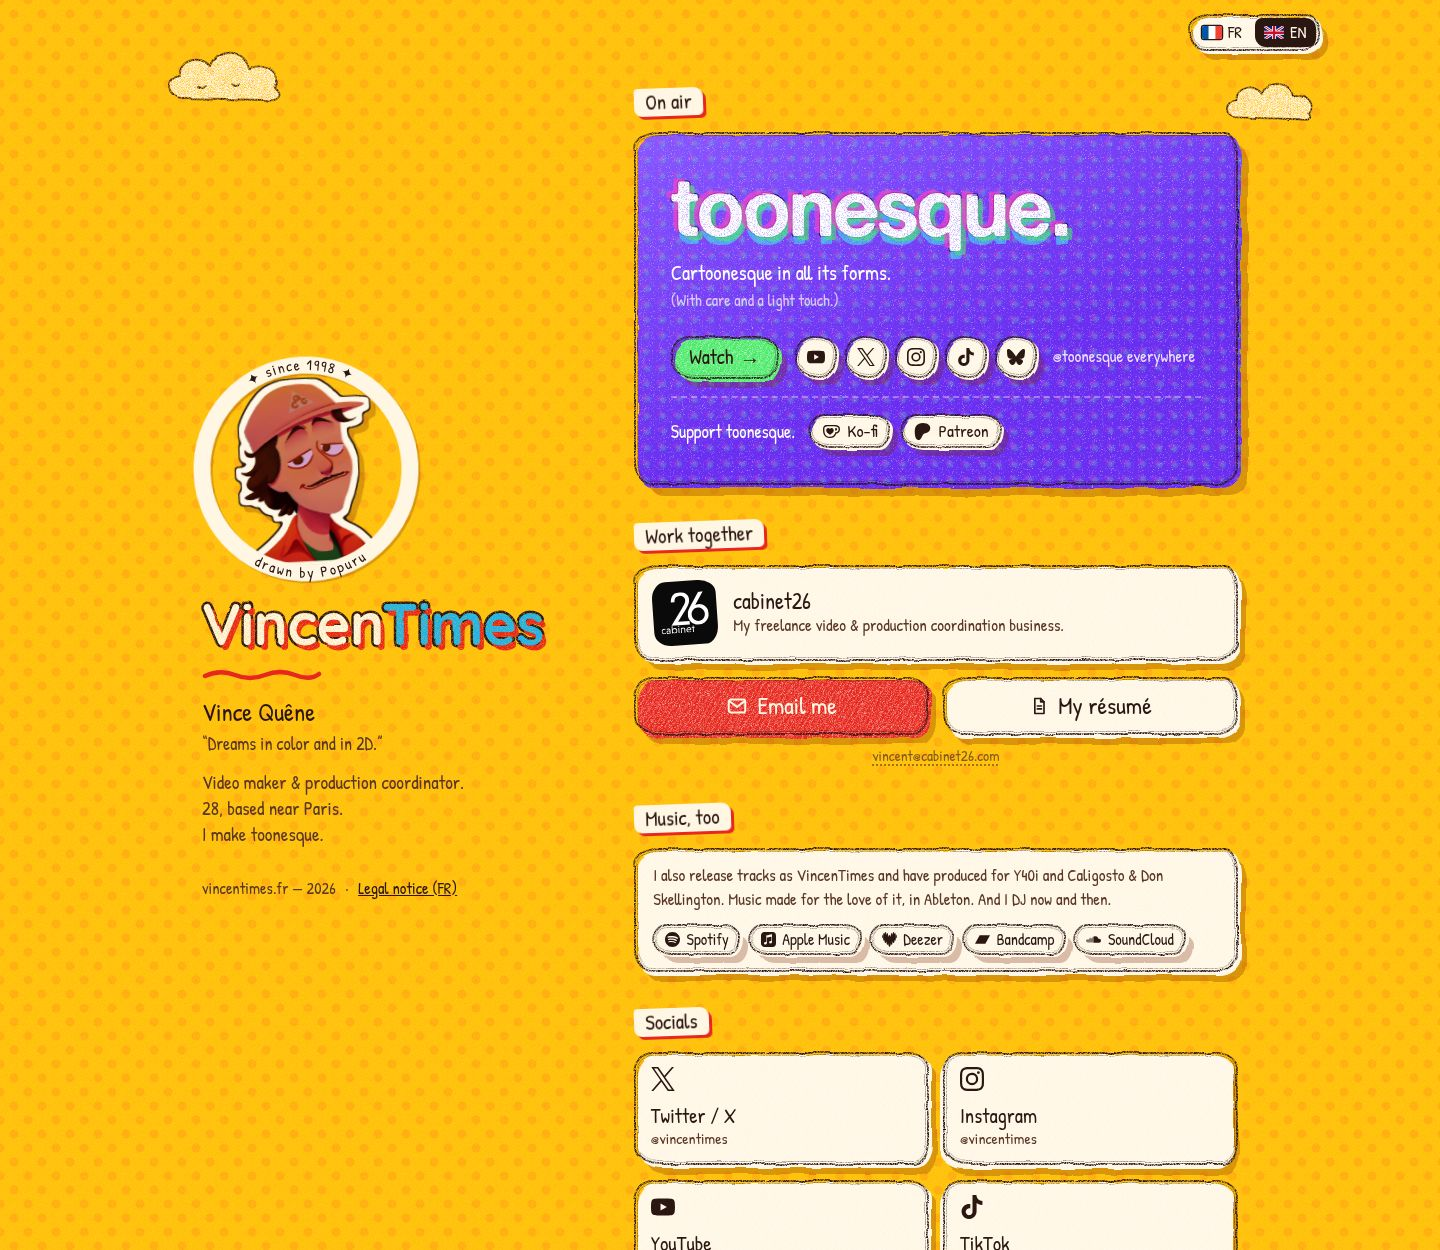
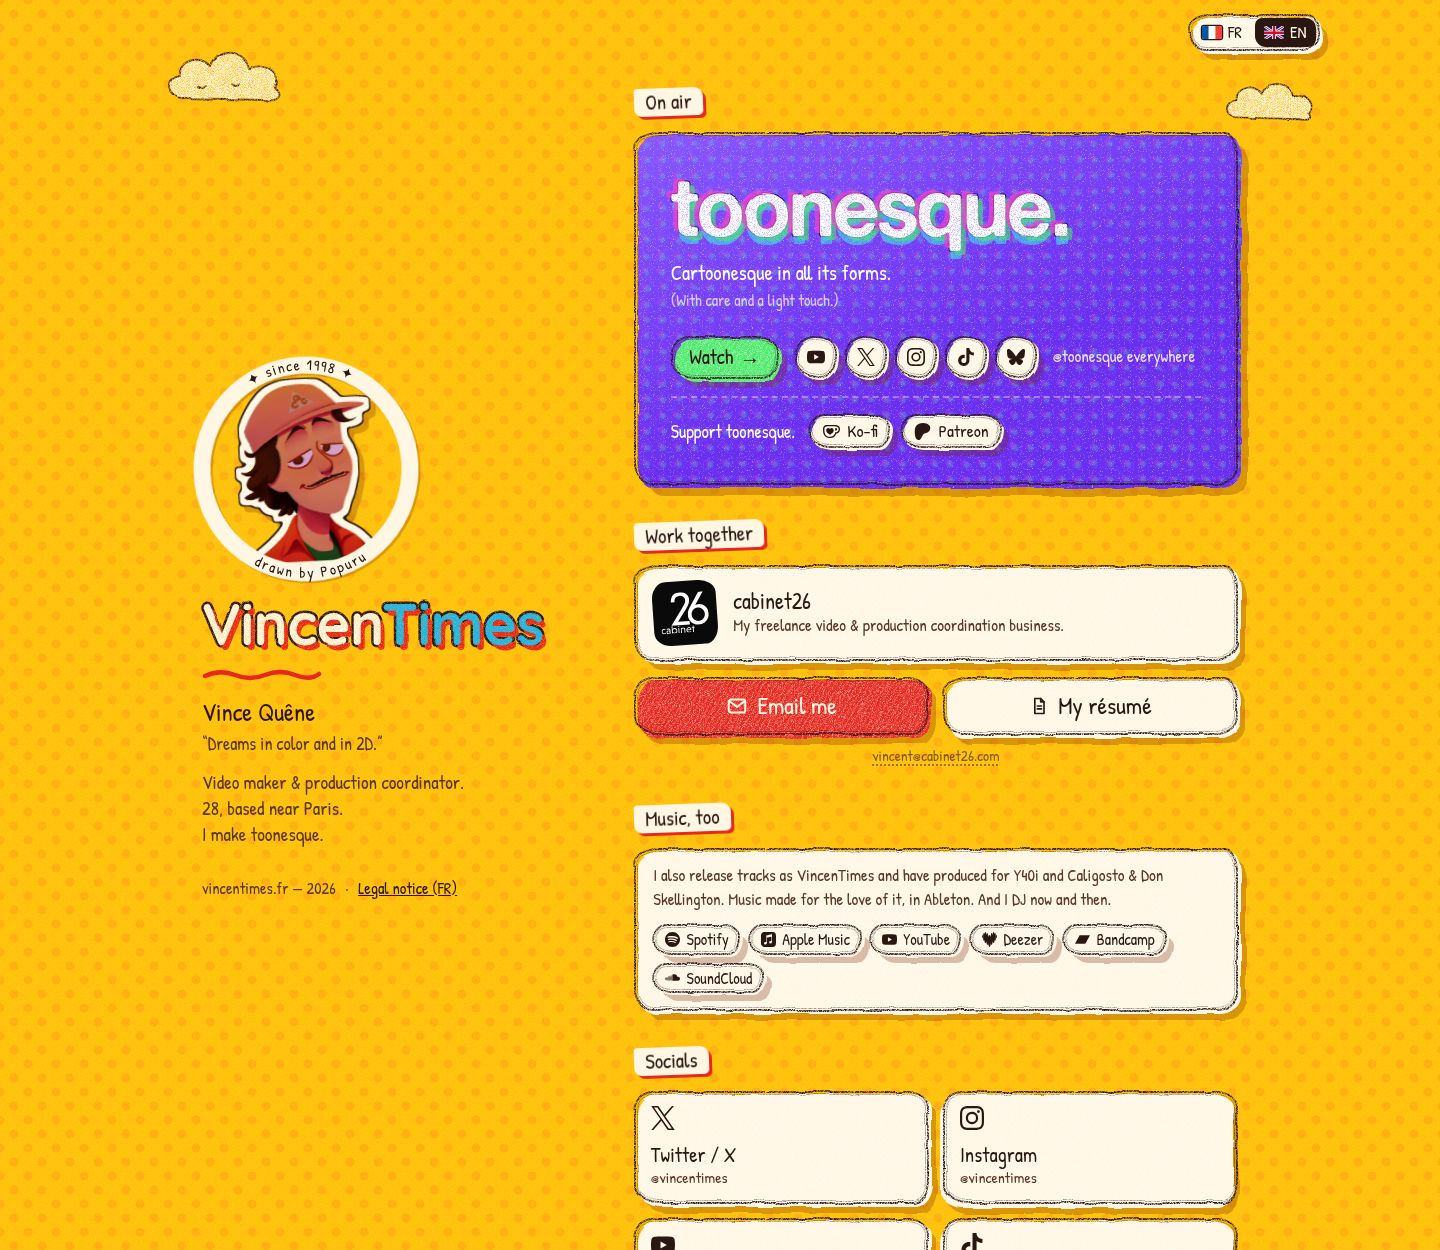
Chaîne YouTube VincenTimes Music dans la carte musique et le sameAs
Claude-Session: https://claude.ai/code/session_01LKzVBaJrLPfnWSfihrEFNx

Changed region(s): [[0.4375, 0.7176, 0.875, 1.0]]

diff --git a/index.html b/index.html
@@ -62,6 +62,7 @@
       "https://www.imdb.com/name/nm9590204/",
       "https://open.spotify.com/artist/1rlahxlXzOCXxGL50SATy9",
       "https://music.apple.com/us/artist/vincentimes/1208055271",
+      "https://www.youtube.com/c/VincenTimesMusic",
       "https://www.deezer.com/artist/11980524",
       "https://vincentimes.bandcamp.com",
       "https://soundcloud.com/vincentimeshd"
@@ -285,6 +286,7 @@
           <ul class="music-links" aria-label="VincenTimes sur les plateformes">
             <li><a class="sketch m-spotify" href="https://open.spotify.com/artist/1rlahxlXzOCXxGL50SATy9" target="_blank" rel="me noopener"><svg aria-hidden="true"><use href="#i-spotify"/></svg>Spotify</a></li>
             <li><a class="sketch m-applemusic" href="https://music.apple.com/us/artist/vincentimes/1208055271" target="_blank" rel="me noopener"><svg aria-hidden="true"><use href="#i-applemusic"/></svg>Apple Music</a></li>
+            <li><a class="sketch m-youtube" href="https://www.youtube.com/c/VincenTimesMusic" target="_blank" rel="me noopener"><svg aria-hidden="true"><use href="#i-youtube"/></svg>YouTube</a></li>
             <li><a class="sketch m-deezer" href="https://www.deezer.com/artist/11980524" target="_blank" rel="me noopener"><svg aria-hidden="true"><use href="#i-deezer"/></svg>Deezer</a></li>
             <li><a class="sketch m-bandcamp" href="https://vincentimes.bandcamp.com" target="_blank" rel="me noopener"><svg aria-hidden="true"><use href="#i-bandcamp"/></svg>Bandcamp</a></li>
             <li><a class="sketch m-soundcloud" href="https://soundcloud.com/vincentimeshd" target="_blank" rel="me noopener"><svg aria-hidden="true"><use href="#i-soundcloud"/></svg>SoundCloud</a></li>

diff --git a/en/index.html b/en/index.html
@@ -63,6 +63,7 @@
       "https://www.imdb.com/name/nm9590204/",
       "https://open.spotify.com/artist/1rlahxlXzOCXxGL50SATy9",
       "https://music.apple.com/us/artist/vincentimes/1208055271",
+      "https://www.youtube.com/c/VincenTimesMusic",
       "https://www.deezer.com/artist/11980524",
       "https://vincentimes.bandcamp.com",
       "https://soundcloud.com/vincentimeshd"
@@ -286,6 +287,7 @@
           <ul class="music-links" aria-label="VincenTimes on les plateformes">
             <li><a class="sketch m-spotify" href="https://open.spotify.com/artist/1rlahxlXzOCXxGL50SATy9" target="_blank" rel="me noopener"><svg aria-hidden="true"><use href="#i-spotify"/></svg>Spotify</a></li>
             <li><a class="sketch m-applemusic" href="https://music.apple.com/us/artist/vincentimes/1208055271" target="_blank" rel="me noopener"><svg aria-hidden="true"><use href="#i-applemusic"/></svg>Apple Music</a></li>
+            <li><a class="sketch m-youtube" href="https://www.youtube.com/c/VincenTimesMusic" target="_blank" rel="me noopener"><svg aria-hidden="true"><use href="#i-youtube"/></svg>YouTube</a></li>
             <li><a class="sketch m-deezer" href="https://www.deezer.com/artist/11980524" target="_blank" rel="me noopener"><svg aria-hidden="true"><use href="#i-deezer"/></svg>Deezer</a></li>
             <li><a class="sketch m-bandcamp" href="https://vincentimes.bandcamp.com" target="_blank" rel="me noopener"><svg aria-hidden="true"><use href="#i-bandcamp"/></svg>Bandcamp</a></li>
             <li><a class="sketch m-soundcloud" href="https://soundcloud.com/vincentimeshd" target="_blank" rel="me noopener"><svg aria-hidden="true"><use href="#i-soundcloud"/></svg>SoundCloud</a></li>

diff --git a/assets/style.css b/assets/style.css
@@ -568,6 +568,7 @@ a.sketch:active { transform: scale(0.97); }
 .music-links svg { width: 15px; height: 15px; fill: currentColor; }
 .m-spotify    { --c: #4fe08a; }
 .m-applemusic { --c: #ff6070; }
+.m-youtube    { --c: #ff5a4f; }
 .m-deezer     { --c: #c47dff; }
 .m-bandcamp   { --c: #5cc8e6; }
 .m-soundcloud { --c: #ff8a3d; }

diff --git a/README.md b/README.md
@@ -27,7 +27,7 @@ Sur l'accueil :
 
 - **toonesque.** mis en avant (« À l'antenne ») : chaîne YouTube, réseaux, soutien Ko-fi / Patreon
 - **Bosser ensemble** : cabinet26 (mon activité d'auto-entrepreneur), boutons mail et CV
-- **Côté musique** : carte discrète vers mes morceaux et productions (Spotify, Apple Music, Deezer, Bandcamp, SoundCloud)
+- **Côté musique** : carte discrète vers mes morceaux et productions (Spotify, Apple Music, YouTube, Deezer, Bandcamp, SoundCloud)
 - Réseaux, et ce que je regarde, joue & écoute (Letterboxd, Backloggd, AniList, Apple Music, Last.fm)
 - Avatar dessiné par [Popuru](https://popuru.carrd.co/)
 
